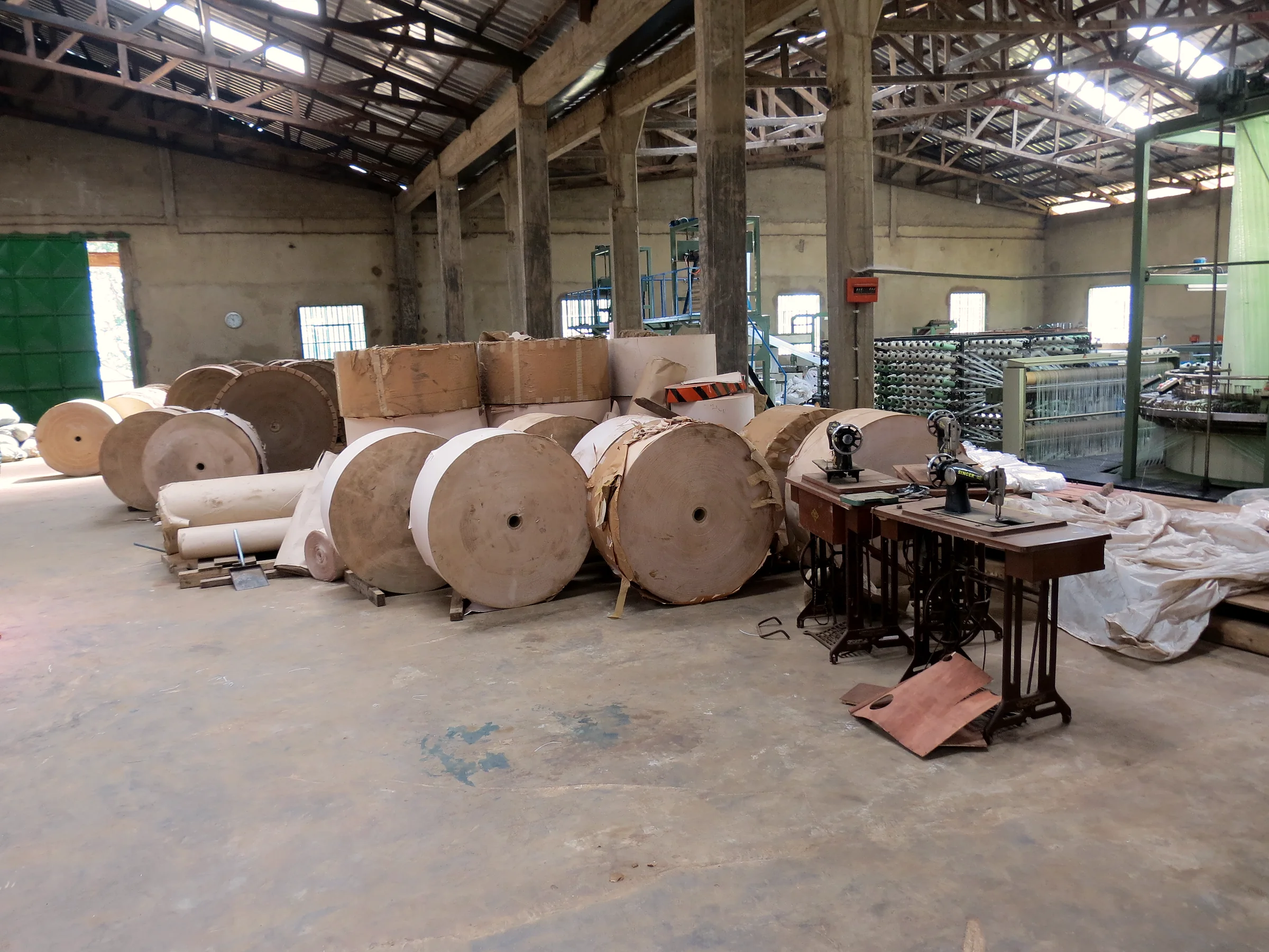
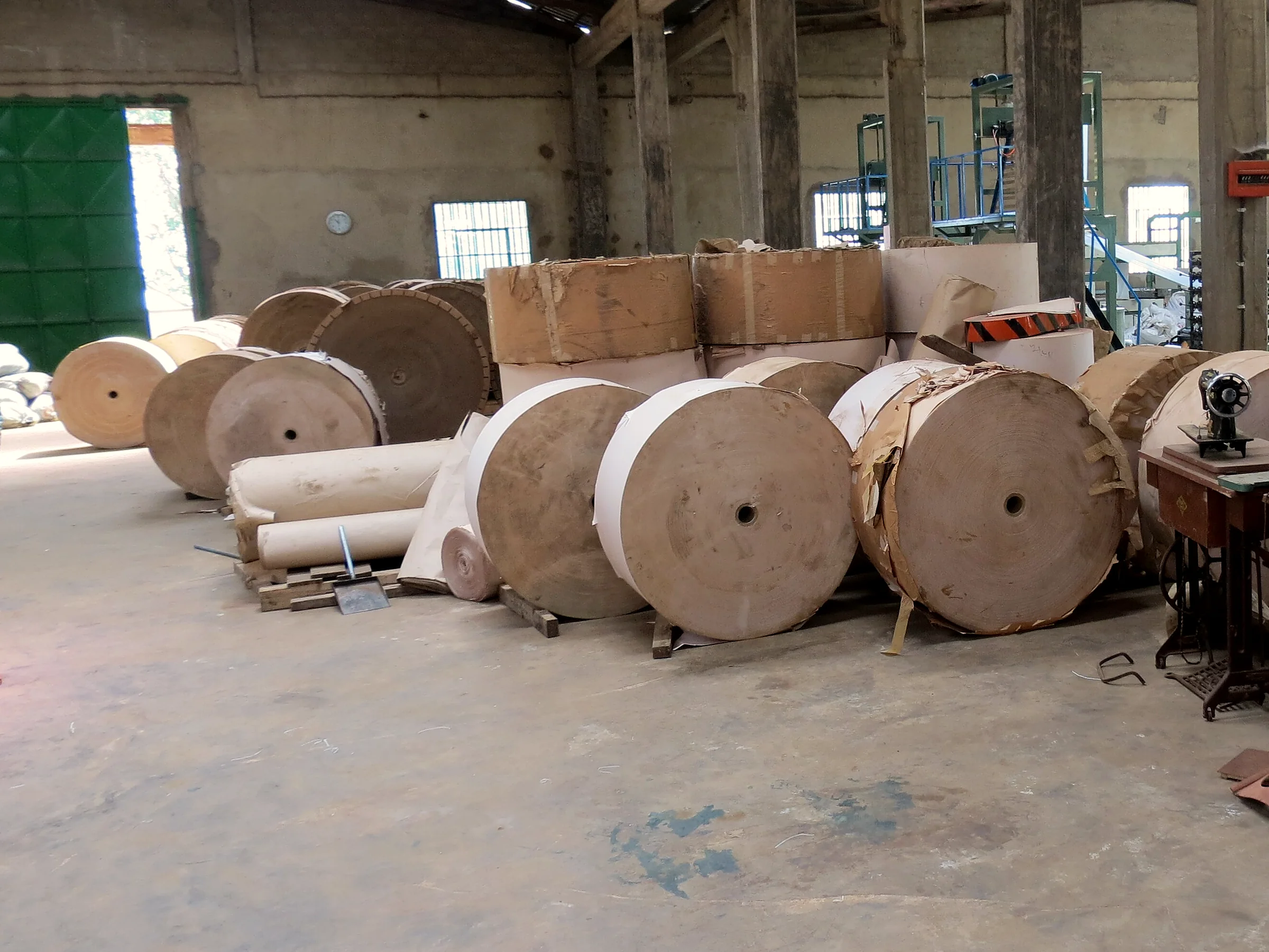
Fix mismatched industry/product imagery on client-photos
Replace duplicated paints/industrial orange-vest look, pasta-as-
confectionery, dough bakery, Ontario-branded produce, branded mono
cartons, and sheet-like paper-reel step with distinct free-license
photos. Refresh die-cut/shipper/printed from sharper sources, swap
corrugation to real machine photo, and update gallery packaging +
CREDITS. Lint/build pass; screenshots in screenshots-v3.

diff --git a/lib/media/registry.ts b/lib/media/registry.ts
@@ -49,7 +49,7 @@ export const mediaRegistry = {
   "product-die-cut-cartons": clientRef({
     id: "product-die-cut-cartons",
     src: "/images/products/die-cut-flat-boxes.webp",
-    alt: "Die-cut corrugated mailer boxes, one assembled and one as a flat blank",
+    alt: "Open unbranded kraft corrugated mailer box with flaps folded out",
     category: "products",
     ratio: "product",
     width: 2208,
@@ -58,7 +58,7 @@ export const mediaRegistry = {
   "product-mono-cartons": stock({
     id: "product-mono-cartons",
     src: "/images/products/mono-cartons-beauty.webp",
-    alt: "Paperboard mono cartons and packaging components for consumer products",
+    alt: "Plain unbranded white paperboard mono cartons on a marble surface",
     category: "products",
     ratio: "product",
     width: 2333,
@@ -67,7 +67,7 @@ export const mediaRegistry = {
   "product-offset-printed-boxes": clientRef({
     id: "product-offset-printed-boxes",
     src: "/images/products/printed-kraft-packaging.webp",
-    alt: "Open kraft mailer box with offset-printed artwork inside the lid",
+    alt: "Open kraft mailer box with bakery-themed offset print inside the lid",
     category: "products",
     ratio: "product",
     width: 2400,
@@ -76,7 +76,7 @@ export const mediaRegistry = {
   "product-2-ply-paper-rolls": stock({
     id: "product-2-ply-paper-rolls",
     src: "/images/products/paper-reels.webp",
-    alt: "Large kraft paper reels stored in a packaging production hall",
+    alt: "Brown kraft paper reels mounted on a packaging production machine",
     category: "products",
     ratio: "product",
     width: 2400,
@@ -94,7 +94,7 @@ export const mediaRegistry = {
   "industry-fruits-and-vegetables": stock({
     id: "industry-fruits-and-vegetables",
     src: "/images/industries/fruit-produce-boxes.webp",
-    alt: "Stacks of corrugated produce boxes used for fruit and vegetables",
+    alt: "Fresh tomatoes and vegetables in plain unbranded corrugated boxes",
     category: "industries",
     ratio: "industry",
     width: 2400,
@@ -103,7 +103,7 @@ export const mediaRegistry = {
   "industry-bakery": stock({
     id: "industry-bakery",
     src: "/images/industries/bakery-dough.webp",
-    alt: "Hands kneading dough on a wooden bakery work surface",
+    alt: "Jam-filled pastries packed in kraft paperboard bakery boxes",
     category: "industries",
     ratio: "industry",
     width: 2400,
@@ -121,7 +121,7 @@ export const mediaRegistry = {
   "industry-paints-and-chemicals": stock({
     id: "industry-paints-and-chemicals",
     src: "/images/industries/paints-industrial.webp",
-    alt: "Worker in a hard hat beside large industrial machinery",
+    alt: "Spray paint cans packed in open corrugated cardboard boxes",
     category: "industries",
     ratio: "industry",
     width: 2400,
@@ -139,7 +139,7 @@ export const mediaRegistry = {
   "industry-confectionery": stock({
     id: "industry-confectionery",
     src: "/images/industries/confectionery-pasta.webp",
-    alt: "Close view of dry pasta shapes suggesting food packaging needs",
+    alt: "Indian mithai sweets packed in a paperboard confectionery box",
     category: "industries",
     ratio: "industry",
     width: 2400,
@@ -166,7 +166,7 @@ export const mediaRegistry = {
   "process-paper-reel-selection": stock({
     id: "process-paper-reel-selection",
     src: "/images/manufacturing/01-paper-reels.webp",
-    alt: "Paper reels staged for packaging production",
+    alt: "Jumbo kraft paper reels staged on a packaging factory floor",
     category: "manufacturing",
     ratio: "product",
     width: 2400,
@@ -175,7 +175,7 @@ export const mediaRegistry = {
   "process-corrugation": clientRef({
     id: "process-corrugation",
     src: "/images/manufacturing/02-corrugation.webp",
-    alt: "Single facer corrugating machine with rolls and suction unit",
+    alt: "Corrugating and converting machine with conveyor on a factory floor",
     category: "manufacturing",
     ratio: "product",
     width: 2400,
@@ -301,7 +301,7 @@ export const mediaRegistry = {
   "gallery-packaging": stock({
     id: "gallery-packaging",
     src: "/images/gallery/packaging-assortment.webp",
-    alt: "Assortment of corrugated boxes, sheets and flexible packaging",
+    alt: "Corrugated shipping boxes sealed with packing tape on a floor",
     category: "packaging",
     ratio: "product",
     width: 1570,

diff --git a/CREDITS.md b/CREDITS.md
@@ -6,22 +6,22 @@ Photographs on this site come from free stock libraries, Wikimedia Commons, and 
 | --- | --- | --- | --- |
 | `/images/hero/packaging-factory-floor.webp` | Client reference photo (enhanced) | Client-supplied reference; vendor marks removed; Real-ESRGAN upscaled | Client reference |
 | `/images/products/corrugated-box-open.webp` | Karolina Grabowska / Pexels | https://www.pexels.com/photo/4498152/ | Pexels License |
-| `/images/products/shipper-cartons-warehouse.webp` | Client reference photo (enhanced) | Client-supplied reference; Real-ESRGAN upscaled | Client reference |
-| `/images/products/die-cut-flat-boxes.webp` | Client reference photo (enhanced) | Client-supplied reference; Real-ESRGAN upscaled | Client reference |
-| `/images/products/mono-cartons-beauty.webp` | Pexels | https://www.pexels.com/photo/3735617/ | Pexels License |
-| `/images/products/printed-kraft-packaging.webp` | Client reference photo (enhanced) | Client-supplied reference; Real-ESRGAN upscaled | Client reference |
-| `/images/products/paper-reels.webp` | Bdx / Wikimedia Commons | https://commons.wikimedia.org/wiki/File:Ndawara_packaging_production_unit,_production_of_cardboard_boxes_(01).JPG | CC BY-SA 4.0 |
+| `/images/products/shipper-cartons-warehouse.webp` | Client reference photo | Client-supplied catalogue reference; Lanczos upscale only (no ESRGAN) | Client reference |
+| `/images/products/die-cut-flat-boxes.webp` | cottonbro studio / Pexels | https://www.pexels.com/photo/4464817/ | Pexels License |
+| `/images/products/mono-cartons-beauty.webp` | Karolina Grabowska / Pexels | https://www.pexels.com/photo/4464887/ | Pexels License |
+| `/images/products/printed-kraft-packaging.webp` | Client reference photo | Client-supplied catalogue reference; Lanczos upscale only (no ESRGAN) | Client reference |
+| `/images/products/paper-reels.webp` | Bdx / Wikimedia Commons | https://commons.wikimedia.org/wiki/File:Ndawara_packaging_production_unit,_production_of_cardboard_boxes_(02).JPG | CC BY-SA 4.0 |
 | `/images/products/cello-tape-sealing.webp` | Ketut Subiyanto / Pexels | https://www.pexels.com/photo/4246120/ | Pexels License |
-| `/images/industries/fruit-produce-boxes.webp` | Shawn à Montréal / Wikimedia Commons | https://commons.wikimedia.org/wiki/File:Stacks_of_Ontario_fruit_boxes_in_Montreal,_August_15_2024.jpg | CC0 |
-| `/images/industries/bakery-dough.webp` | Pexels | https://www.pexels.com/photo/6287295/ | Pexels License |
+| `/images/industries/fruit-produce-boxes.webp` | Pexels | https://www.pexels.com/photo/2255935/ | Pexels License |
+| `/images/industries/bakery-dough.webp` | Pexels | https://www.pexels.com/photo/17244955/ | Pexels License |
 | `/images/industries/pharma-packaging.webp` | Unsplash | https://unsplash.com/photos/CBTmEZqUaM0 | Unsplash License |
-| `/images/industries/paints-industrial.webp` | Pexels | https://www.pexels.com/photo/2760241/ | Pexels License |
+| `/images/industries/paints-industrial.webp` | cottonbro studio / Pexels | https://www.pexels.com/photo/7120518/ | Pexels License |
 | `/images/industries/fmcg-boxed-goods.webp` | Tima Miroshnichenko / Pexels | https://www.pexels.com/photo/6169659/ | Pexels License |
-| `/images/industries/confectionery-pasta.webp` | Pexels | https://www.pexels.com/photo/6287286/ | Pexels License |
+| `/images/industries/confectionery-pasta.webp` | Pexels | https://www.pexels.com/photo/19151502/ | Pexels License |
 | `/images/industries/industrial-manufacturing.webp` | Pexels | https://www.pexels.com/photo/2760243/ | Pexels License |
 | `/images/industries/ecommerce-logistics.webp` | Pexels | https://www.pexels.com/photo/4391470/ | Pexels License |
-| `/images/manufacturing/01-paper-reels.webp` | Bdx / Wikimedia Commons | https://commons.wikimedia.org/wiki/File:Ndawara_packaging_production_unit,_production_of_cardboard_boxes_(05).JPG | CC BY-SA 4.0 |
-| `/images/manufacturing/02-corrugation.webp` | Client reference photo (enhanced) | Client-supplied reference; Real-ESRGAN upscaled | Client reference |
+| `/images/manufacturing/01-paper-reels.webp` | Bdx / Wikimedia Commons | https://commons.wikimedia.org/wiki/File:Ndawara_packaging_production_unit,_production_of_cardboard_boxes_(01).JPG | CC BY-SA 4.0 |
+| `/images/manufacturing/02-corrugation.webp` | Bdx / Wikimedia Commons | https://commons.wikimedia.org/wiki/File:Ndawara_packaging_production_unit,_production_of_cardboard_boxes_(04).JPG | CC BY-SA 4.0 |
 | `/images/manufacturing/03-pasting-board-layers.webp` | Henry Söderlund / Wikimedia Commons | https://commons.wikimedia.org/wiki/File:Cardboard_boxes_by_Henry_S%C3%B6derlund.jpg | CC BY 2.0 |
 | `/images/manufacturing/04-creasing-slotter.webp` | Client reference photo (enhanced) | Client-supplied reference; vendor marks removed; Real-ESRGAN upscaled | Client reference |
 | `/images/manufacturing/05-printing-conversion.webp` | Client reference photo (enhanced) | Client-supplied reference; vendor marks removed; Real-ESRGAN upscaled | Client reference |
@@ -34,7 +34,7 @@ Photographs on this site come from free stock libraries, Wikimedia Commons, and 
 | `/images/gallery/machinery-die.webp` | SimónK / Wikimedia Commons | https://commons.wikimedia.org/wiki/File:Flat_die_cut.jpg | CC BY-SA 4.0 |
 | `/images/gallery/manufacturing-process.webp` | Acheolg / Wikimedia Commons | https://commons.wikimedia.org/wiki/File:A_picture_shows_the_die_cutting_process.jpg | CC BY-SA 4.0 |
 | `/images/gallery/products-board.webp` | Richard Wheeler / Wikimedia Commons | https://commons.wikimedia.org/wiki/File:Corrugated_Cardboard.JPG | CC BY-SA 3.0 |
-| `/images/gallery/packaging-assortment.webp` | Unsplash | https://unsplash.com/photos/RVP3wAw9gJY | Unsplash License |
+| `/images/gallery/packaging-assortment.webp` | Ketut Subiyanto / Pexels | https://www.pexels.com/photo/4246110/ | Pexels License |
 | `/images/gallery/dispatch-conveyor.webp` | Streetsoda / Wikimedia Commons | https://commons.wikimedia.org/wiki/File:Corrugated_cardboard_on_conveyor.jpg | CC0 |
 
 ## License notes
